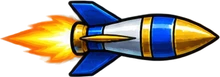
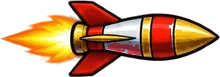
feat(siege): split the bow into power, speed and quiver; red rockets
- Base: Bow power (damage, arrows a shot, look), Bow speed (rate, reach) and
  Quiver (shots held, refill); old saves keep the bow as power and speed.
- Base tiles show a card with name, text, numbers and level stars.
- Rocket launcher rockets recoloured red; the rocket rain drops them from the
  sky with larger explosion art.
- v1.15.89.

diff --git a/bug-hunter/src/siege/cartoon/model.ts b/bug-hunter/src/siege/cartoon/model.ts
@@ -236,7 +236,11 @@ const reaches = (u: Fighter, v: Fighter) => hits(specOf(u), v.id) || (isAir(v.id
 export const canHit = (id: number, target: number) => hits(UNITS[id], target);
 /** Keep at most `DECK` of each kind, in order. */
 export function capDeck(deck: number[]) { const land = deck.filter(id => !isAir(id)).slice(0, DECK), air = deck.filter(isAir).slice(0, DECK); return deck.filter(id => land.includes(id) || air.includes(id)); }
-export interface Progress { version: 1; unlocked: number; coins: number; victories: number[]; upgrades: [number, number, number, number]; deck: number[];
+/** The base's upgrades, each 0 to 5: army, fortress, energy, and the bow's three: power (damage, arrows a volley and its
+    look), speed (shots a second and reach) and quiver (shots held and refill). */
+export type Upgrades = [number, number, number, number, number, number];
+export const UPGRADES = 6;
+export interface Progress { version: 1; unlocked: number; coins: number; victories: number[]; upgrades: Upgrades; deck: number[];
   /** Each troop's level (index: its id), 1 to `levelsOf(id)`. */
   levels: number[];
   /** The troops recruited so far (the swordsman from the start). */
@@ -248,7 +252,7 @@ export interface Progress { version: 1; unlocked: number; coins: number; victori
   kit: number[];
   /** Set once the deck holds cards (`card`), not troop ids. */
   cards: 1 }
-export const freshProgress = (): Progress => ({ version: 1, unlocked: 1, coins: 0, victories: [], upgrades: [0, 0, 0, 0], deck: [0], levels: UNITS.map(() => 1), owned: [0], powers: POWERS.map(() => 0), kit: [], cards: 1 });
+export const freshProgress = (): Progress => ({ version: 1, unlocked: 1, coins: 0, victories: [], upgrades: [0, 0, 0, 0, 0, 0], deck: [0], levels: UNITS.map(() => 1), owned: [0], powers: POWERS.map(() => 0), kit: [], cards: 1 });
 /** Can this card go in the army: its troop recruited and its level bought? */
 export const hasCard = (p: Progress, c: number) => Number.isInteger(c) && c >= 0 && owns(p, cardId(c)) && cardLevel(c) <= (p.levels[cardId(c)] ?? 1);
 /** The owner's testing switch: every troop and power open from the start and recruited and levelled for free, the base's
@@ -274,7 +278,9 @@ export function readProgress(raw: string | null): Progress {
     if (!v || v.version !== 1) return p;
     p.unlocked = integer(v.unlocked, 1, LAST, 1); p.coins = integer(v.coins, 0, 1000000, 0);
     p.victories = Array.isArray(v.victories) ? [...new Set<number>(v.victories.filter((n: unknown) => typeof n === 'number' && Number.isInteger(n) && n >= 1 && n <= LAST))] : [];
-    p.upgrades = [0, 1, 2, 3].map(i => integer(v.upgrades?.[i], 0, 5, 0)) as Progress['upgrades'];
+    p.upgrades = Array.from({ length: UPGRADES }, (_, i) => integer(v.upgrades?.[i], 0, 5, 0)) as Upgrades;
+    // A save from when the Bow was one upgrade (faster and more arrows): its level becomes both its power and its speed.
+    if (Array.isArray(v.upgrades) && v.upgrades.length === 4) p.upgrades[4] = p.upgrades[3];
     p.levels = UNITS.map(u => (u.foe ? 1 : integer(v.levels?.[u.id], 1, levelsOf(u.id), 1)));
     p.powers = POWERS.map((w, i) => integer(v.powers?.[i], 0, w.forms.length, 0));
     p.kit = Array.isArray(v.kit) ? [...new Set<number>(v.kit.filter((n: unknown): n is number => typeof n === 'number' && hasPower(p, n)))].slice(0, KIT) : [];
@@ -297,7 +303,7 @@ export function levelUp(p: Progress, id: number): boolean {
   p.coins -= pay; p.levels[id] = (p.levels[id] ?? 1) + 1; return true;
 }
 export function upgrade(p: Progress, slot: number): boolean {
-  if (!Number.isInteger(slot) || slot < 0 || slot > 3) return false;
+  if (!Number.isInteger(slot) || slot < 0 || slot >= UPGRADES) return false;
   const level = p.upgrades[slot]; const cost = upgradePrice(level);
   if (level >= 5 || p.coins < cost) return false;
   p.coins -= cost; p.upgrades[slot]++; return true;
@@ -383,7 +389,7 @@ export const generatorPrice = (s: Siege) => 65 + s.generator * 45;
 export function newSiege(p: Progress, world: number): Siege {
   world = integer(world, 1, Math.min(LAST, p.unlocked), 1);
   const maxHp: [number, number] = [1700 + p.upgrades[1] * 200, 1700 + hard(world) * 150];
-  return { world, phase: 'fight', time: 0, energy: 80, generator: 0, cooldowns: {}, hp: [...maxHp], maxHp, units: [], effects: [], nextId: 1, nextWave: 7, waves: 0, kills: 0, spell: 0, rocket: 0, aim: 700, bossSpawned: false, paid: false, power: 1 + p.upgrades[0] * 0.08, economy: p.upgrades[2] * 0.6, deck: [...p.deck], bow: { quiver: BOW.max, drawing: false, held: 0, next: 0, level: p.upgrades[3] }, fort: p.upgrades[1], levels: [...(p.levels ?? [])], kit: p.kit.filter(c => hasPower(p, c)).map(c => ({ id: c % 100, level: Math.floor(c / 100) + 1, card: c })), kitCd: {}, hitq: [], view: { x: 0, width: 650 }, casts: 0 };
+  return { world, phase: 'fight', time: 0, energy: 80, generator: 0, cooldowns: {}, hp: [...maxHp], maxHp, units: [], effects: [], nextId: 1, nextWave: 7, waves: 0, kills: 0, spell: 0, rocket: 0, aim: 700, bossSpawned: false, paid: false, power: 1 + p.upgrades[0] * 0.08, economy: p.upgrades[2] * 0.6, deck: [...p.deck], bow: { quiver: BOW.max + p.upgrades[5] * BOW.storeStep, drawing: false, held: 0, next: 0, level: p.upgrades[3], speed: p.upgrades[4], store: p.upgrades[5] }, fort: p.upgrades[1], levels: [...(p.levels ?? [])], kit: p.kit.filter(c => hasPower(p, c)).map(c => ({ id: c % 100, level: Math.floor(c / 100) + 1, card: c })), kitCd: {}, hitq: [], view: { x: 0, width: 650 }, casts: 0 };
 }
 /** The guardian, Cartoon Wars 2-style: it only comes out once the enemy fortress falls, far tougher than a troop, and
     the battle is won when it falls too. */
@@ -480,12 +486,20 @@ export const SCATTER = { along: 14, deep: 4 };
     (front): two at the back, one in front between them. */
 export const METEORS = [[-30, 10], [32, 10], [2, -10]];
 export const FLY = { high: 70, ranged: 45, close: 22, rate: 90 };
-export const BOW = { max: 100, cost: 1.2, regen: 12, every: 0.42, step: 0.03, damage: 16, gap: 24, friendly: 0.35 };
-export interface Bow { quiver: number; drawing: boolean; held: number; next: number; level: number }
+export const BOW = { max: 100, cost: 1.2, regen: 12, every: 0.42, step: 0.03, damage: 16, gap: 24, friendly: 0.35, powerStep: 0.12, reach: 960, reachStep: 24, storeStep: 25, regenStep: 3 };
+/** The bow in battle: `level` its power upgrade (damage, arrows a volley, look), `speed` and `store` its other two. */
+export interface Bow { quiver: number; drawing: boolean; held: number; next: number; level: number; speed: number; store: number }
 export const aimAt = (x: number) => Math.max(140, Math.min(1080, x));
 /** Seconds between shots and arrows per shot, for the bow's level and how long it has been held. */
-export const bowEvery = (b: Bow) => BOW.every - b.level * BOW.step;
+export const bowEvery = (b: Bow) => BOW.every - b.speed * BOW.step;
 export const bowCount = (b: Bow) => looksTier(b.level);
+/** Each arrow's damage, by the bow's power. */
+export const bowDamage = (b: Bow) => Math.round(BOW.damage * (1 + b.level * BOW.powerStep));
+/** How far the bow reaches (the furthest aim), by its speed. */
+export const bowReach = (b: Bow) => BOW.reach + b.speed * BOW.reachStep;
+/** The quiver: what it holds and how fast it refills, by its upgrade. */
+export const bowMax = (b: Bow) => BOW.max + b.store * BOW.storeStep;
+export const bowRegen = (b: Bow) => BOW.regen + b.store * BOW.regenStep;
 /** Our crossbow's shots: one launch speed and gravity (field units, seconds). */
 const SHOT = { v: 1900, g: 900 };
 /** The screen angle (y down) to hit a spot `dx` ahead and `dy` below at `SHOT`'s speed: the flatter solution; out of
@@ -542,7 +556,7 @@ function arrows(s: Siege, count: number) {
     };
     // It strikes whoever is there, ours too: aim past your own troops.
     for (const u of s.units) if (u.hp > 0 && (Math.abs(u.x - at) <= 28 && !(u.side === 0 && UNITS[u.id].air) || crossed(u))) {
-      u.hp -= BOW.damage * (u.side ? s.power : BOW.friendly); u.flash = 0.18;
+      u.hp -= bowDamage(s.bow) * (u.side ? s.power : BOW.friendly); u.flash = 0.18;
       if (u.side === 0) continue;
       // A hit nudges it back a little (not the guardians or the steady), at most once every `NUDGE.every`, so it still
       // makes its way forward.
@@ -578,7 +592,7 @@ export function draw(s: Siege, on: boolean) { if (s.phase === 'fight') s.bow.dra
 /** The bow button: one tap starts the arrows, the next stops them. */
 export const toggleBow = (s: Siege) => draw(s, !s.bow.drawing);
 function bow(s: Siege, dt: number) {
-  const b = s.bow;
+  const b = s.bow; s.aim = Math.min(s.aim, bowReach(b));
   if (b.drawing) {
     b.held += dt; b.next -= dt;
     if (b.next <= 0) { arrows(s, bowCount(b)); s.shots = (s.shots ?? 0) + 1; b.quiver -= BOW.cost; b.next = bowEvery(b); }
@@ -586,7 +600,7 @@ function bow(s: Siege, dt: number) {
     if (b.drawing) return;
   }
   b.held = 0; b.next = 0;
-  b.quiver = Math.min(BOW.max, b.quiver + BOW.regen * dt);
+  b.quiver = Math.min(bowMax(b), b.quiver + bowRegen(b) * dt);
 }
 /** The missile: one heavy blast at the aim, a shorter recharge than the discharge. */
 export const ROCKET = { radius: 70, damage: 150, every: 12 };
@@ -671,7 +685,7 @@ export function castPower(s: Siege, card: number): boolean {
       const x = x0 + (i + 0.5) * span / n + (rnd(i * 3 + c) - 0.5) * 18, delay = rnd(i * 7 + c * 5) * 1.7, deep = Math.floor(rnd(i + c * 11) * 3) - 1, up = deep * 8, at = delay + fall;
       push({ x, from: x, lane: 1, life: at, max: fall, kind: 'fall', side: 0, art: form.art, up });
       s.hitq.push({ at: s.time + at, x, r, damage: form.damage, freeze: form.freeze });
-      if (form.art === 'rocket') push({ x, from: x, lane: 1, life: at + BOOM, max: BOOM, kind: 'boom', side: 0, size: 54, up });
+      if (form.art === 'rocket') push({ x, from: x, lane: 1, life: at + BOOM, max: BOOM, kind: 'boom', side: 0, size: 78 + (i % 3) * 10, up });
       else if (form.art === 'fire') push({ x, from: x, lane: 1, life: at + 1.4, max: 1.4, kind: 'fire', side: 0, size: 46, up });
       else if (form.art === 'ice') push({ x, from: x, lane: 1, life: at + 0.9, max: 0.9, kind: 'ground', side: 0, art: 'ice', up });
       else push({ x, from: x, lane: 1, life: at + 2.4, max: 2.4, kind: 'ground', side: 0, art: 'arrow', up });

diff --git a/bug-hunter/src/siege/index.ts b/bug-hunter/src/siege/index.ts
@@ -25,7 +25,7 @@ const UPGRADE_PICS = ['items/gladHelm', 'items/plate', 'ui/orb', 'items/quiver']
 /** Cartoon's army and generator rows have a picture for each of their five levels. */
 const ARMY_PICS = ['items/bandana', 'items/gladHelm', 'items/plate', 'items/crown', 'items/phoenix'], GENERATOR_PICS = ['items/potion', 'items/lantern', 'items/hourglass', 'items/orb', 'ui/orb'];
 /** A workshop row's picture: the fortress and the crossbow show the look their level gives (`looksTier`). */
-const upgradePic = (mode: Mode, i: number, level: number) => (mode === 'legacy' ? UPGRADE_PICS[i] : i === 1 ? `siege/castle-${cartoonModel.castleTier(level)}` : i === 3 ? `siege/xbow-${cartoonModel.looksTier(level)}` : i === 0 ? ARMY_PICS[Math.min(5, Math.max(1, level)) - 1] : i === 2 ? GENERATOR_PICS[Math.min(5, Math.max(1, level)) - 1] : UPGRADE_PICS[i]);
+const upgradePic = (mode: Mode, i: number, level: number) => (mode === 'legacy' ? UPGRADE_PICS[i] : i === 1 ? `siege/castle-${cartoonModel.castleTier(level)}` : i === 3 ? `siege/xbow-${cartoonModel.looksTier(level)}` : i === 4 ? `siege/units/bolt-${cartoonModel.looksTier(level)}` : i === 5 ? 'items/quiver' : i === 0 ? ARMY_PICS[Math.min(5, Math.max(1, level)) - 1] : i === 2 ? GENERATOR_PICS[Math.min(5, Math.max(1, level)) - 1] : UPGRADE_PICS[i]);
 
 /** A bar button's picture and caption: the picture made once, only the caption's text changed after (ten times a
     second, so no `<img>` is re-created each time). */
@@ -155,7 +155,7 @@ export function openSiege(t: T, onClose: () => void, hero = { pic: '', name: '' 
   const POWER_PICS = [['skills/double', 'skills/frost', 'skills/fireball', 'skills/rocket'], ['skills/spark', 'skills/storm', 'skills/storm-evo'], ['skills/water', 'skills/water', 'skills/frost-evo'], ['skills/fireball', 'skills/fireball-evo', 'skills/nova']];
   const powerPic = (row: number, level: number) => `/images/game/${POWER_PICS[row][Math.min(level, POWER_PICS[row].length) - 1]}.webp`;
   const powerName = (row: number, level: number) => t(`siegePower${row}F${Math.min(level, cartoonModel.POWERS[row].forms.length)}` as Key);
-  const shopRows = () => (shopTab === 'special' ? cartoonModel.POWERS.map(w => w.id) : shopTab === 'base' ? [0, 1, 2, 3] : M.ALLIES.filter(u => !!u.air === (shopTab === 'air')).map(u => u.id));
+  const shopRows = () => (shopTab === 'special' ? cartoonModel.POWERS.map(w => w.id) : shopTab === 'base' ? Array.from({ length: cartoonModel.UPGRADES }, (_, i) => i) : M.ALLIES.filter(u => !!u.air === (shopTab === 'air')).map(u => u.id));
   const rowLevels = (row: number) => (shopTab === 'special' ? cartoonModel.POWERS[row].forms.length : shopTab === 'base' ? 5 : M.levelsOf(row));
   /** Cartoon's shop, laid out like Cartoon Wars 2's: tabs on top, a row of tiles per troop (each form, joined, its
       energy on it) or per upgrade, the equipped slots on the right, and below the picked tile's name, price, the gold,
@@ -170,13 +170,16 @@ export function openSiege(t: T, onClose: () => void, hero = { pic: '', name: '' 
       const worn = shopTab === 'special' ? progress.kit.includes(cartoonModel.powerCard(row, level)) : shopTab !== 'base' && selected.includes(cartoonModel.card(row, level));
       // What is still to come stays hidden as a «?» (only what is owned, the next one to buy, and every troop's first form show), for the hype.
       const hidden = !x.have && !x.next && !(shopTab !== 'base' && level === 1);
-      return `<button class="sg-st-tile ${x.have ? 'is-have' : x.next ? 'is-next' : 'is-locked'} ${on ? 'is-on' : ''} ${worn ? 'is-worn' : ''}" data-sg-tile="${row}:${level}" aria-pressed="${on}" aria-label="${hidden ? '?' : `${shopTab === 'special' ? powerName(row, level) : shopTab === 'base' ? t(`siegeUpgrade${row}` as Key) : name(row)} · ${t('siegeLevel', { n: level })}`}">${hidden ? '<span class="sg-st-q" aria-hidden="true">?</span>' : `<img src="${pic}" ${shopTab === 'base' || shopTab === 'special' ? '' : `data-trim="${pic}"`} alt="">`}${corner && !hidden ? `<small>${corner}</small>` : ''}${worn ? '<b class="sg-st-worn" aria-hidden="true">✓</b>' : ''}</button>`;
+      return `<button class="sg-st-tile ${x.have ? 'is-have' : x.next ? 'is-next' : 'is-locked'} ${on ? 'is-on' : ''} ${worn ? 'is-worn' : ''}" data-sg-tile="${row}:${level}" aria-pressed="${on}" aria-label="${hidden ? '?' : `${shopTab === 'special' ? powerName(row, level) : shopTab === 'base' ? t(`siegeBaseName${row}` as Key) : name(row)} · ${t('siegeLevel', { n: level })}`}">${hidden ? '<span class="sg-st-q" aria-hidden="true">?</span>' : `<img src="${pic}" ${shopTab === 'base' || shopTab === 'special' ? '' : `data-trim="${pic}"`} alt="">`}${corner && !hidden ? `<small>${corner}</small>` : ''}${worn ? '<b class="sg-st-worn" aria-hidden="true">✓</b>' : ''}</button>`;
     }).join('<span class="sg-st-link" aria-hidden="true"></span>')}</div>`).join('');
     const x = tile(pick.row, pick.level), troop = shopTab !== 'base', hid = !x.have && !x.next && !(troop && pick.level === 1);
-    const title = hid ? '? ? ?' : `${shopTab === 'special' ? powerName(pick.row, pick.level) : troop ? name(pick.row) : t(`siegeUpgrade${pick.row}` as Key)} · ${t('siegeLevel', { n: pick.level })}`;
-    const text = hid ? '' : shopTab === 'special' ? `${t(`siegePower${pick.row}Text` as Key)} · ${t('siegePowerCd', { n: cartoonModel.POWERS[pick.row].cooldown })}` : troop ? role(pick.row, pick.level) : '';
+    const title = hid ? '? ? ?' : `${shopTab === 'special' ? powerName(pick.row, pick.level) : troop ? name(pick.row) : t(`siegeBaseName${pick.row}` as Key)} · ${t('siegeLevel', { n: pick.level })}`;
+    const text = hid ? '' : shopTab === 'special' ? `${t(`siegePower${pick.row}Text` as Key)} · ${t('siegePowerCd', { n: cartoonModel.POWERS[pick.row].cooldown })}` : troop ? role(pick.row, pick.level) : t(`siegeBaseText${pick.row}` as Key);
     const pic = shopTab === 'special' ? powerPic(pick.row, pick.level) : shopTab === 'base' ? `/images/game/${upgradePic('cartoon', pick.row, pick.level)}.webp` : V.portrait(pick.row, pick.level);
-    const stats = troop && shopTab !== 'special' && !hid ? `<ul class="sg-st-stats">${stars(pick.row, pick.level).map((n, i) => `<li><span>${t((['siegeStatHp', 'siegeStatDamage', 'siegeStatRate', 'siegeStatSpeed'] as const)[i])}</span><em>${statText(pick.row, pick.level)[i]}</em><b class="sg-stars" style="--v:${n}" role="img" aria-label="${n}/5">★★★★★</b></li>`).join('')}</ul>` : '';
+    const row = (label: string, value: string, n: number) => `<li><span>${label}</span><em>${value}</em><b class="sg-stars" style="--v:${n}" role="img" aria-label="${n}/5">★★★★★</b></li>`;
+    const stats = hid || shopTab === 'special' ? '' : `<ul class="sg-st-stats">${troop
+      ? stars(pick.row, pick.level).map((n, i) => row(t((['siegeStatHp', 'siegeStatDamage', 'siegeStatRate', 'siegeStatSpeed'] as const)[i]), statText(pick.row, pick.level)[i], n)).join('')
+      : baseStats(pick.row, pick.level).map(([k, v]) => row(t(k), v, pick.level)).join('')}</ul>`;
     const price = x.have ? `✓ ${t('siegeHave')}` : x.next ? (x.price ? `🪙 ${x.price}` : t('siegeFree')) : `🔒 ${x.why}`;
     const kind = shopTab === 'air', worn = isWorn(pick.row, pick.level);
     // The army on a stretch of the battle bar's wall, as in battle: a tap (or a drag off the bar) takes a card out.
@@ -191,6 +194,16 @@ export function openSiege(t: T, onClose: () => void, hero = { pic: '', name: '' 
       <div class="sg-st-actions"><span class="sg-st-gold"><img src="/images/game/store/coins-2.webp" alt="">${progress.coins}</span>
         ${troop ? `<div class="sg-st-army" data-sg-army role="group" aria-label="${armyLabel}" title="${t('siegeDragHint')}">${army}</div>` : ''}
         <button class="sg-st-go is-fight" data-sg="launch" ${selected.length ? '' : 'disabled'}>${t('siegeLaunch')} ▶</button></div></div>`;
+  }
+  /** What a base upgrade gives at a level, for its card: each line's label and value (its stars are the level). */
+  function baseStats(row: number, level: number): [Key, string][] {
+    const b = { quiver: 0, drawing: false, held: 0, next: 0, level, speed: level, store: level };
+    if (row === 0) return [['siegeBaseArmy', `+${level * 8}%`]];
+    if (row === 1) return [['siegeBaseFort', String(1700 + level * 200)]];
+    if (row === 2) return [['siegeBaseEnergy', `+${(level * 0.6).toFixed(1)}/s`]];
+    if (row === 3) return [['siegeBaseArrowDamage', String(cartoonModel.bowDamage(b))], ['siegeBaseArrows', String(cartoonModel.bowCount(b))]];
+    if (row === 4) return [['siegeBaseRate', (1 / cartoonModel.bowEvery(b)).toFixed(1)], ['siegeBaseReach', `${Math.round(cartoonModel.bowReach(b) / cartoonModel.FIELD * 100)}%`]];
+    return [['siegeBaseStore', String(Math.floor(cartoonModel.bowMax(b) / cartoonModel.BOW.cost))], ['siegeBaseRegen', (cartoonModel.bowRegen(b) / cartoonModel.BOW.cost).toFixed(1)]];
   }
   /** Where the army bar's six cells sit on the battle bar's art (its x on the 2047-wide sheet, less the cut at 648). */
   const CELLS = [24, 203, 391, 570, 749, 928];
@@ -492,7 +505,7 @@ export function openSiege(t: T, onClose: () => void, hero = { pic: '', name: '' 
     const reloading = !s.bow.drawing && s.bow.quiver < M.BOW.cost;
     q('[data-sg-bow-label]').textContent = reloading ? t('siegeBowEmpty') : t('siegeCannon');
     // The bow button is a ball that empties as the quiver does: full colour when full, see-through when empty.
-    bowButton.style.setProperty('--q', (s.bow.quiver / M.BOW.max).toFixed(3));
+    bowButton.style.setProperty('--q', (s.bow.quiver / ('store' in s.bow ? cartoonModel.bowMax(s.bow) : M.BOW.max)).toFixed(3));
     bowButton.classList.toggle('is-empty', reloading); bowButton.classList.toggle('is-drawing', s.bow.drawing); bowButton.setAttribute('aria-pressed', String(s.bow.drawing));
     bowButton.disabled = paused || s.phase !== 'fight';
     // Cartoon's specials show their recharge as a darkening that lightens from the top down; Legacy's keep the seconds.

diff --git a/bug-hunter/src/strings.ts b/bug-hunter/src/strings.ts
@@ -407,6 +407,27 @@ const en = {
   siegeUpgrades: "Workshop · Permanent upgrades",
   siegeUpgrade0: "Army · +8% health and damage",
   siegeUpgrade1: "Fortress · +200 health",
+  siegeBaseArmy: "Health and damage",
+  siegeBaseFort: "Castle health",
+  siegeBaseEnergy: "Extra energy",
+  siegeBaseArrowDamage: "Damage/arrow",
+  siegeBaseArrows: "Arrows/shot",
+  siegeBaseRate: "Shots/s",
+  siegeBaseReach: "Reach",
+  siegeBaseStore: "Shots held",
+  siegeBaseRegen: "Refill/s",
+  siegeBaseName0: "Army",
+  siegeBaseName1: "Fortress",
+  siegeBaseName2: "Energy",
+  siegeBaseName3: "Bow · power",
+  siegeBaseName4: "Bow · speed",
+  siegeBaseName5: "Quiver",
+  siegeBaseText0: "Every troop gets more health and hits harder.",
+  siegeBaseText1: "A bigger castle with more health.",
+  siegeBaseText2: "Energy comes in faster in battle.",
+  siegeBaseText3: "Each arrow hits harder, and more arrows fly a shot.",
+  siegeBaseText4: "Shoots faster and reaches further.",
+  siegeBaseText5: "Holds more shots and refills faster.",
   siegeUpgrade2: "Energy · +0.6 per second",
   siegeUpgradeBuy: "Level {n}/5 · {cost} gold",
   siegeMax: "Maximum level",
@@ -1920,6 +1941,27 @@ const es: Record<Key, string> = {
   siegeUpgrades: "Taller · Mejoras permanentes",
   siegeUpgrade0: "Ejército · +8% de vida y daño",
   siegeUpgrade1: "Fortaleza · +200 de vida",
+  siegeBaseArmy: "Vida y daño",
+  siegeBaseFort: "Vida del castillo",
+  siegeBaseEnergy: "Energía extra",
+  siegeBaseArrowDamage: "Daño/flecha",
+  siegeBaseArrows: "Flechas/disparo",
+  siegeBaseRate: "Disparos/s",
+  siegeBaseReach: "Alcance",
+  siegeBaseStore: "Disparos guardados",
+  siegeBaseRegen: "Recarga/s",
+  siegeBaseName0: "Ejército",
+  siegeBaseName1: "Fortaleza",
+  siegeBaseName2: "Energía",
+  siegeBaseName3: "Arco · potencia",
+  siegeBaseName4: "Arco · velocidad",
+  siegeBaseName5: "Carcaj",
+  siegeBaseText0: "Todas las tropas tienen más vida y pegan más fuerte.",
+  siegeBaseText1: "Un castillo más grande y con más vida.",
+  siegeBaseText2: "La energía llega más rápido en la batalla.",
+  siegeBaseText3: "Cada flecha hace más daño y salen más flechas por disparo.",
+  siegeBaseText4: "Dispara más rápido y llega más lejos.",
+  siegeBaseText5: "Guarda más disparos y se recarga más rápido.",
   siegeUpgrade2: "Energía · +0,6 por segundo",
   siegeUpgradeBuy: "Nivel {n}/5 · {cost} de oro",
   siegeMax: "Nivel máximo",

diff --git a/bug-hunter/src/siege/cartoon/view.ts b/bug-hunter/src/siege/cartoon/view.ts
@@ -296,8 +296,9 @@ function effect(ctx: CanvasRenderingContext2D, e: Effect, p: number, y: number, 
     const at = ground + 2 - (e.up ?? 0);
     if (e.kind === 'fall') {
       // Down from above the screen, a little slanted, pointing along its path.
-      const art = still(e.art === 'ice' ? 'siege/units/shot-ice' : e.art === 'fire' ? 'fx/fireball.webp' : e.art === 'rocket' ? 'fx/rocket.webp' : 'siege/units/shot-arrow'); if (!ok(art)) return false;
-      const len = e.art === 'arrow' ? 64 : e.art === 'ice' ? 60 : 58, h = len * art.naturalHeight / art.naturalWidth, drop = (1 - p) * 640;
+      const art = still(e.art === 'ice' ? 'siege/units/shot-ice' : e.art === 'fire' ? 'fx/fireball.webp' : e.art === 'rocket' ? 'siege/units/bolt-4' : 'siege/units/shot-arrow'); if (!ok(art)) return false;
+      // The rocket rain drops the crossbow's red rockets nose first from the sky; they blow up where they land (`boom`).
+      const len = e.art === 'arrow' ? 64 : e.art === 'ice' ? 60 : e.art === 'rocket' ? 74 : 58, h = len * art.naturalHeight / art.naturalWidth, drop = (1 - p) * 640;
       ctx.save(); ctx.translate(e.x - drop * 0.3, at - drop); ctx.rotate(Math.atan2(1, 0.3)); ctx.drawImage(art, -len / 2, -h / 2, len, h); ctx.restore(); return true;
     }
     if (e.kind === 'ground') {

diff --git a/bug-hunter/src/siege/siege.css b/bug-hunter/src/siege/siege.css
@@ -930,3 +930,4 @@
 .siege-root.is-cartoon .sg-story .sg-scene.is-down .sg-speaker,.siege-root.is-cartoon .sg-story .sg-scene.is-boss.is-down .sg-speaker{height:auto;width:min(46vw,440px);max-width:80%;max-height:min(30vh,220px);margin-bottom:-6px;animation:sg-pop .35s ease-out}
 @media (max-width:600px){.siege-root.is-cartoon .sg-story .sg-scene.is-down .sg-speaker,.siege-root.is-cartoon .sg-story .sg-scene.is-boss.is-down .sg-speaker{width:80vw}}
 @media (max-height:440px){.siege-root.is-cartoon .sg-story .sg-scene.is-down .sg-speaker,.siege-root.is-cartoon .sg-story .sg-scene.is-boss.is-down .sg-speaker{width:min(34vw,280px);max-height:26vh;margin-bottom:-4px}}
+@media (min-width:601px) and (min-height:501px){.sg-stars{font-size:15px}.sg-st-stats{padding-right:4px}}

diff --git a/bug-hunter/src/version.ts b/bug-hunter/src/version.ts
@@ -4,7 +4,7 @@
  * This folder migration preserves the public game URL, saves and gameplay.
  * The build stamp changes automatically on each deployment.
  */
-export const GAME_VERSION = '1.15.88';
+export const GAME_VERSION = '1.15.89';
 
 declare const __GAME_BUILD__: { commit: string; built: string };
 /** Build stamp from the shared Vite configuration; safe outside Vite too. */

diff --git a/bug-hunter/CHANGELOG.md b/bug-hunter/CHANGELOG.md
@@ -4,6 +4,18 @@
 
 This changelog tracks game-version changes starting with v1.12.55. Earlier releases are not reconstructed here.
 
+## 1.15.89 - 2026-10-28
+
+### Changed
+- Siege Cartoon base: the Bow is now three upgrades, each with five levels.
+  - Bow · power: damage per arrow +12% a level, and more arrows a shot; its look still goes up to the rocket launcher.
+  - Bow · speed: shots a second, and how far it reaches. It now reaches 60% of the field at first and 68% at level 5, where it used to always reach 68%.
+  - Quiver: +25 shots held and +3 refill a second per level.
+
+  A save with the old Bow keeps its level as both power and speed.
+- Siege Cartoon shop: Base tiles show their card like troops: a short name, what the upgrade does, its numbers at that level and the level as stars.
+- Siege Cartoon: the rocket launcher's rockets are red, like the launcher (they were blue). The rocket rain power drops those red rockets nose first from the sky, and each one blows up with the explosion art, now bigger.
+
 ## 1.15.88 - 2026-10-28
 
 ### Fixed
